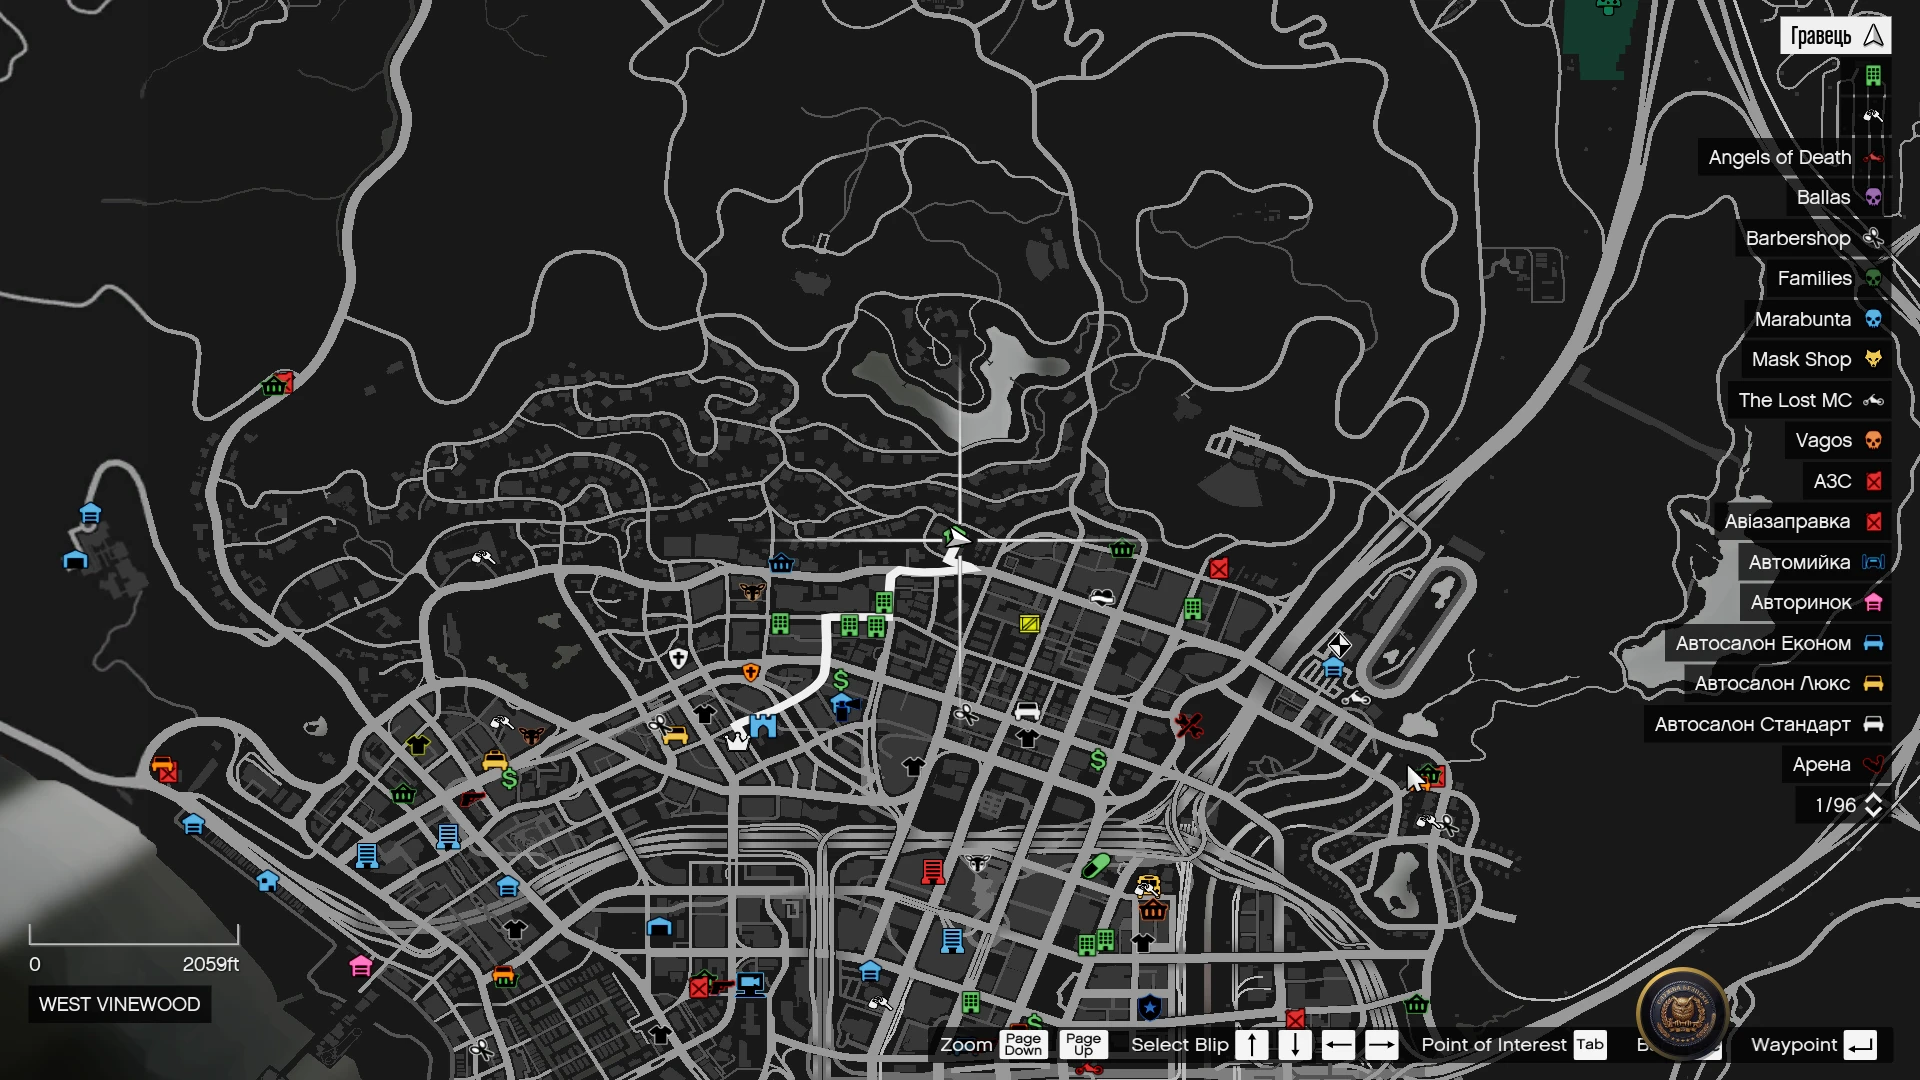
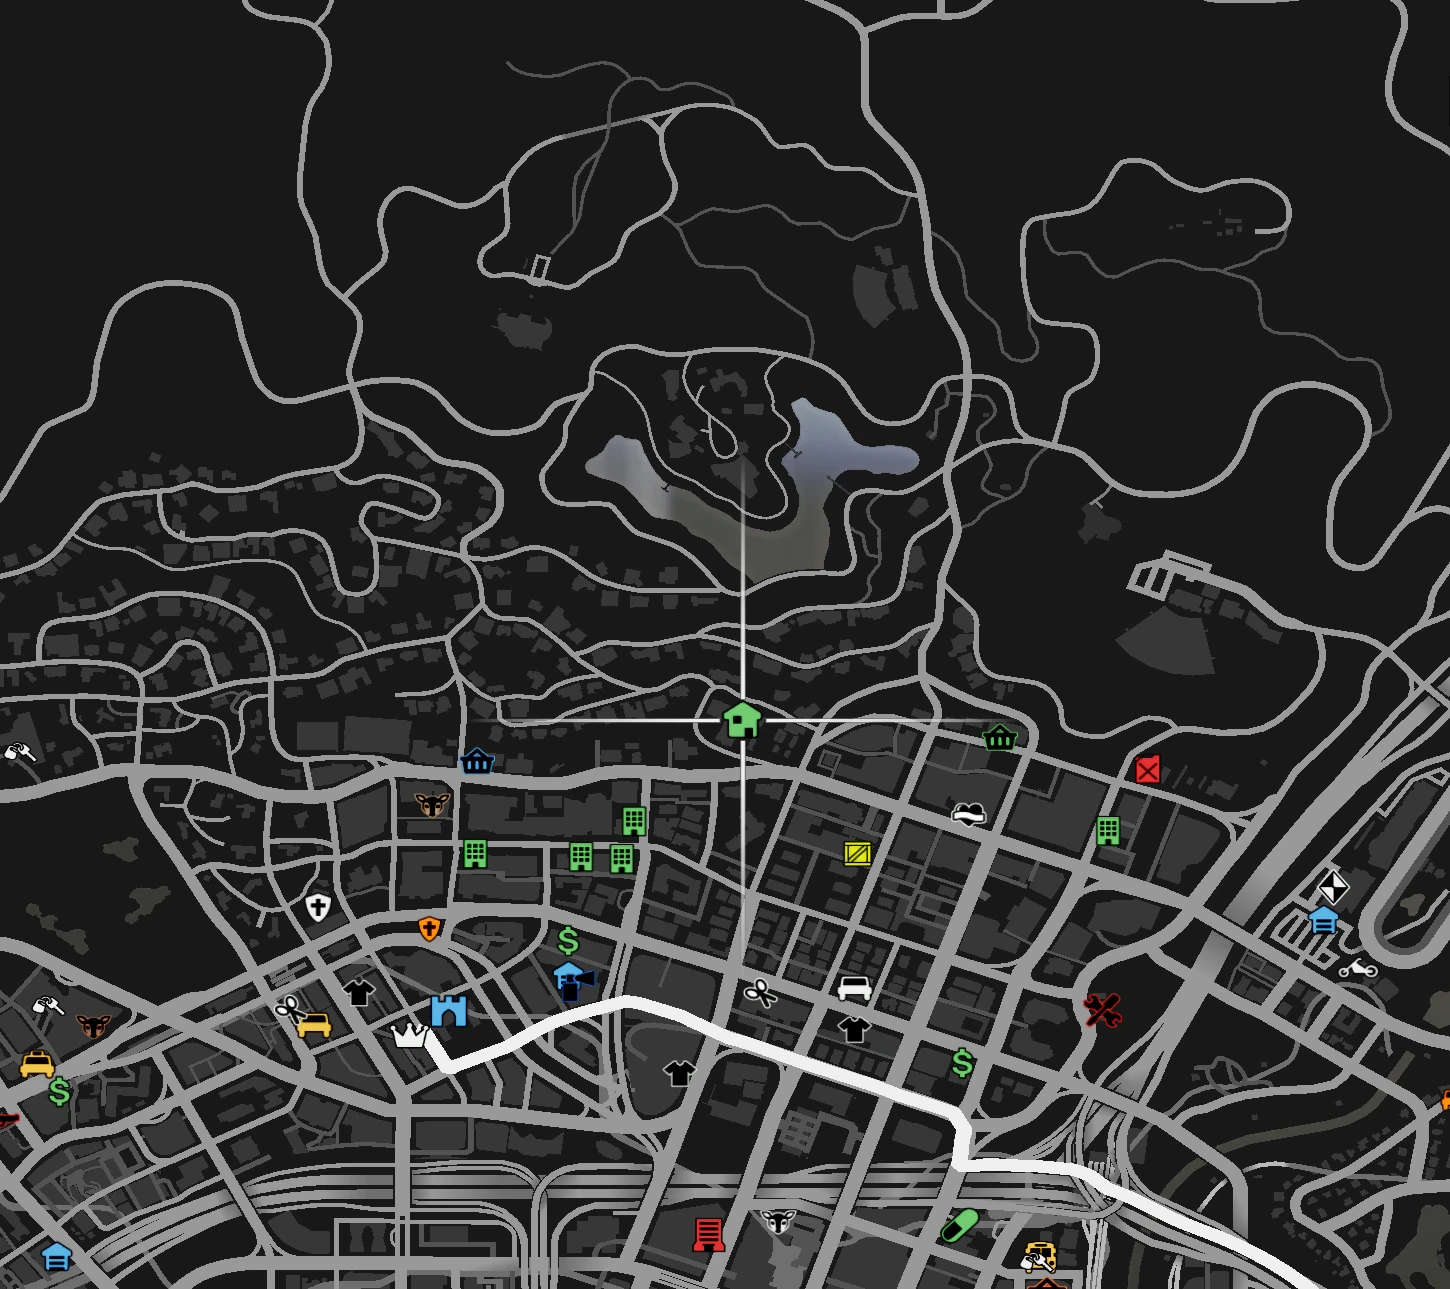
Штаб на карті: нова карта, вікно по центру, тактичний GPS-стиль (мітка-радар, приціл, скан, наближення)

diff --git a/info/family.css b/info/family.css
@@ -148,7 +148,6 @@
 .fm-facts dd{ margin:6px 0 0; font:400 22px/1.05 var(--c-display); text-transform:uppercase; letter-spacing:.02em; }
 .fm-hq__rule{ margin:20px 0 0; padding-left:14px; border-left:2px solid var(--c-red); font-size:14px; color:var(--c-muted); }
 .fm-hq__actions{ margin-top:24px; display:flex; flex-wrap:wrap; gap:12px; }
-.fm-lb--single{ grid-template-columns:minmax(0, 1fr); }
 
 /* ---------- Символ ---------- */
 .fm-emblem{ display:grid; grid-template-columns:minmax(260px, 420px) minmax(0, 1fr); gap:clamp(30px, 6vw, 80px); align-items:center; }
@@ -284,6 +283,165 @@
 .fm-lb__nav:hover, .fm-lb__close:hover{ background:var(--c-red); border-color:var(--c-red); }
 .fm-lb__close{ position:absolute; top:16px; right:16px; font-size:18px; }
 body.fm-lock{ overflow:hidden; }
+
+/* ---------- Штаб на карті: тактичний GPS ---------- */
+.fm-map{
+  position:fixed; inset:0; z-index:5000;
+  display:grid; place-items:center;
+  padding:clamp(10px, 3vw, 36px);
+  background:
+    radial-gradient(ellipse at 50% 45%, rgba(224,24,45,.16), transparent 60%),
+    rgba(3,3,4,.92);
+  -webkit-backdrop-filter:blur(10px); backdrop-filter:blur(10px);
+  animation:fmMapFade .35s ease both;
+}
+.fm-map[hidden]{ display:none; }
+.fm-map::before{
+  content:""; position:absolute; inset:0; pointer-events:none;
+  background-image:linear-gradient(rgba(255,255,255,.03) 1px, transparent 1px), linear-gradient(90deg, rgba(255,255,255,.03) 1px, transparent 1px);
+  background-size:48px 48px;
+}
+.fm-map__panel{
+  position:relative; width:min(1080px, 100%);
+  display:grid; grid-template-rows:auto minmax(0, 1fr) auto;
+  max-height:calc(100svh - 24px);
+  background:rgba(10,10,12,.92); border:1px solid rgba(255,255,255,.1);
+  box-shadow:0 40px 120px rgba(0,0,0,.7), 0 0 0 1px rgba(224,24,45,.15), 0 0 80px rgba(224,24,45,.12);
+  animation:fmMapIn .55s cubic-bezier(.2,.7,.2,1) both;
+}
+.fm-map__corners{ position:absolute; inset:-1px; pointer-events:none; z-index:3; }
+.fm-map__corners i{ position:absolute; width:22px; height:22px; border:2px solid var(--c-red); }
+.fm-map__corners i:nth-child(1){ top:0; left:0; border-right:0; border-bottom:0; }
+.fm-map__corners i:nth-child(2){ top:0; right:0; border-left:0; border-bottom:0; }
+.fm-map__corners i:nth-child(3){ bottom:0; left:0; border-right:0; border-top:0; }
+.fm-map__corners i:nth-child(4){ bottom:0; right:0; border-left:0; border-top:0; }
+
+.fm-map__bar{
+  display:flex; align-items:center; gap:16px; padding:12px 14px 12px 18px;
+  border-bottom:1px solid rgba(255,255,255,.08);
+  font:800 11px/1 var(--c-body); letter-spacing:.26em; text-transform:uppercase; color:var(--c-dim);
+}
+.fm-map__live{ display:inline-flex; align-items:center; gap:8px; color:#9ff0bb; }
+.fm-map__live i{ width:8px; height:8px; border-radius:50%; background:#22c55e; box-shadow:0 0 10px #22c55e; animation:fmMapBlink 1.4s ease-in-out infinite; }
+.fm-map__title{ margin-left:auto; color:var(--c-muted); }
+.fm-map__title b{ color:#fff; }
+.fm-map__close{
+  display:grid; place-items:center; width:40px; height:40px; margin-left:8px;
+  border:1px solid rgba(255,255,255,.14); background:rgba(0,0,0,.4); color:#fff; font-size:16px; cursor:pointer;
+  transition:background .2s, border-color .2s, transform .2s;
+}
+.fm-map__close:hover{ background:var(--c-red); border-color:var(--c-red); transform:rotate(90deg); }
+
+/* Вікно з картою */
+.fm-map__view{
+  position:relative; overflow:hidden; min-height:0;
+  display:grid; place-items:center; background:#151515;
+  cursor:zoom-in;
+}
+.fm-map.is-zoomed .fm-map__view{ cursor:zoom-out; }
+.fm-map__stage{
+  position:relative; width:100%; max-height:calc(100svh - 250px); aspect-ratio:1450 / 1289;
+  margin:0 auto;
+  transform-origin:var(--x) var(--y);
+  transition:transform .8s cubic-bezier(.2,.7,.2,1);
+  animation:fmMapZoomIn 1.2s cubic-bezier(.2,.7,.2,1) both;
+}
+@supports (height:1svh){ .fm-map__stage{ width:min(100%, calc((100svh - 250px) * 1450 / 1289)); } }
+.fm-map.is-zoomed .fm-map__stage{ transform:scale(2); }
+.fm-map__stage img{
+  display:block; width:100%; height:100%; object-fit:cover;
+  filter:contrast(1.08) saturate(1.1) brightness(.95);
+}
+/* червоний відтінок поверх карти — у стилі сайту */
+.fm-map__stage::after{
+  content:""; position:absolute; inset:0; pointer-events:none;
+  background:radial-gradient(circle at var(--x) var(--y), rgba(224,24,45,.0) 0, rgba(224,24,45,.0) 12%, rgba(5,5,6,.35) 60%, rgba(5,5,6,.6) 100%);
+  mix-blend-mode:multiply;
+}
+
+/* Мітка особняка з радаром */
+.fm-map__pin{ position:absolute; left:var(--x); top:var(--y); z-index:2; width:0; height:0; }
+.fm-map__pin i{
+  position:absolute; left:-60px; top:-60px; width:120px; height:120px; border-radius:50%;
+  border:2px solid rgba(255,42,61,.9); opacity:0;
+  animation:fmMapPing 2.4s cubic-bezier(.2,.7,.2,1) infinite;
+}
+.fm-map__pin i:nth-child(2){ animation-delay:.8s; }
+.fm-map__pin i:nth-child(3){ animation-delay:1.6s; }
+.fm-map__pin b{
+  position:absolute; left:-26px; top:-26px; width:52px; height:52px; border-radius:50%;
+  border:2px solid var(--c-red-hot);
+  box-shadow:0 0 0 4px rgba(224,24,45,.25), 0 0 30px rgba(255,42,61,.8), inset 0 0 18px rgba(255,42,61,.5);
+}
+.fm-map.is-zoomed .fm-map__pin{ transform:scale(.5); }
+.fm-map__tag{
+  position:absolute; left:var(--x); top:var(--y); z-index:2;
+  transform:translate(36px, -78px);
+  padding:9px 14px 10px; white-space:nowrap;
+  background:rgba(8,8,10,.9); border:1px solid rgba(255,42,61,.7); border-left:3px solid var(--c-red);
+  font:400 18px/1 var(--c-display); letter-spacing:.06em; text-transform:uppercase; color:#fff;
+  box-shadow:0 10px 30px rgba(0,0,0,.5);
+  animation:fmMapTag .6s .9s cubic-bezier(.2,.7,.2,1) both;
+}
+.fm-map__tag small{ display:block; margin-bottom:5px; font:800 9px/1 var(--c-body); letter-spacing:.3em; color:var(--c-red-hot); }
+.fm-map__tag::before{
+  content:""; position:absolute; left:-36px; bottom:-30px; width:44px; height:1px; background:rgba(255,42,61,.8);
+  transform-origin:right; transform:rotate(-40deg);
+}
+.fm-map.is-zoomed .fm-map__tag{ transform:translate(18px, -40px) scale(.5); transform-origin:left bottom; }
+
+/* Приціл, скан-лінія, віньєтка */
+.fm-map__cross{ position:absolute; z-index:1; pointer-events:none; background:rgba(255,42,61,.35); }
+.fm-map__cross--x{ left:0; right:0; top:var(--y); height:1px; animation:fmMapCrossX 1s .3s cubic-bezier(.2,.7,.2,1) both; }
+.fm-map__cross--y{ top:0; bottom:0; left:var(--x); width:1px; animation:fmMapCrossY 1s .3s cubic-bezier(.2,.7,.2,1) both; }
+.fm-map.is-zoomed .fm-map__cross{ opacity:0; transition:opacity .3s; }
+.fm-map__scan{
+  position:absolute; left:0; right:0; height:120px; top:-120px; z-index:1; pointer-events:none;
+  background:linear-gradient(180deg, transparent, rgba(255,42,61,.12) 70%, rgba(255,42,61,.35));
+  animation:fmMapScan 4.5s linear infinite;
+}
+.fm-map__vignette{
+  position:absolute; inset:0; z-index:1; pointer-events:none;
+  background:repeating-linear-gradient(0deg, rgba(0,0,0,.12) 0 1px, transparent 1px 3px);
+  box-shadow:inset 0 0 120px rgba(0,0,0,.85);
+}
+
+.fm-map__foot{
+  display:flex; align-items:center; gap:18px; flex-wrap:wrap; padding:14px 18px;
+  border-top:1px solid rgba(255,255,255,.08);
+}
+.fm-map__addr small{ display:block; font:800 10px/1 var(--c-body); letter-spacing:.3em; text-transform:uppercase; color:var(--c-red-hot); }
+.fm-map__addr b{ display:block; margin-top:6px; font:400 26px/1 var(--c-display); text-transform:uppercase; }
+.fm-map__coords{ margin-left:auto; font:600 12px/1 ui-monospace, Consolas, monospace; letter-spacing:.12em; color:var(--c-dim); }
+.fm-map__coords span{ color:#fff; }
+.fm-map__zoom{ white-space:nowrap; }
+
+@keyframes fmMapFade{ from{ opacity:0; } }
+@keyframes fmMapIn{ from{ opacity:0; transform:translateY(24px) scale(.97); } }
+@keyframes fmMapZoomIn{ from{ transform:scale(1.35); filter:blur(6px); opacity:.2; } }
+@keyframes fmMapPing{ 0%{ transform:scale(.3); opacity:1; } 100%{ transform:scale(1.6); opacity:0; } }
+@keyframes fmMapTag{ from{ opacity:0; transform:translate(56px, -78px); } }
+@keyframes fmMapCrossX{ from{ transform:scaleX(0); } }
+@keyframes fmMapCrossY{ from{ transform:scaleY(0); } }
+@keyframes fmMapScan{ to{ top:100%; } }
+@keyframes fmMapBlink{ 50%{ opacity:.3; } }
+
+@media (max-width:640px){
+  .fm-map{ padding:8px; }
+  .fm-map__title{ display:none; }
+  .fm-map__live{ margin-right:auto; }
+  .fm-map__stage{ max-height:calc(100svh - 290px); }
+  @supports (height:1svh){ .fm-map__stage{ width:min(100%, calc((100svh - 290px) * 1450 / 1289)); } }
+  .fm-map__tag{ font-size:14px; transform:translate(26px, -64px); }
+  .fm-map__coords{ display:none; }
+  .fm-map__zoom{ margin-left:auto; }
+  .fm-map__addr b{ font-size:20px; }
+}
+@media (prefers-reduced-motion: reduce){
+  .fm-map, .fm-map__panel, .fm-map__stage, .fm-map__tag, .fm-map__cross{ animation:none; }
+  .fm-map__scan, .fm-map__pin i, .fm-map__live i{ animation:none; }
+  .fm-map__stage{ transition:none; }
+}
 
 /* ---------- Заклик ---------- */
 .fm-cta{

diff --git a/info/index.html b/info/index.html
@@ -21,7 +21,7 @@
   <link rel="stylesheet" href="/auth.css?v=20260926b">
   <link rel="stylesheet" href="/profile.css?v=20261116">
   <link rel="stylesheet" href="/castro.css?v=20260926h">
-  <link rel="stylesheet" href="/info/family.css?v=20260926c">
+  <link rel="stylesheet" href="/info/family.css?v=20261117">
   <link rel="stylesheet" href="/page-transition.css?v=20260926">
   <link rel="stylesheet" href="/cursor.css?v=20260926">
   <link rel="stylesheet" href="/screen-scale.css?v=20260926">
@@ -486,12 +486,31 @@
 </main>
 
 <!-- Карта: де особняк -->
-<div class="fm-lb fm-lb--single" id="fmMap" role="dialog" aria-modal="true" aria-label="Особняк на карті" hidden>
-  <button class="fm-lb__close" type="button" aria-label="Закрити">✕</button>
-  <figure>
-    <img alt="Особняк Family Castro на карті — провулок Джентрі, Західний Вайнвуд" data-src="/assets/mansion-map.webp">
-    <figcaption><small>Західний Вайнвуд</small><b>Провулок Джентрі</b></figcaption>
-  </figure>
+<div class="fm-map" id="fmMap" role="dialog" aria-modal="true" aria-label="Особняк на карті" hidden>
+  <div class="fm-map__panel">
+    <span class="fm-map__corners" aria-hidden="true"><i></i><i></i><i></i><i></i></span>
+    <header class="fm-map__bar">
+      <span class="fm-map__live"><i></i>GPS • Сигнал</span>
+      <span class="fm-map__title">Штаб <b>CASTRO</b></span>
+      <button class="fm-map__close" type="button" aria-label="Закрити">✕</button>
+    </header>
+    <div class="fm-map__view" style="--x:51.17%; --y:55.8%">
+      <div class="fm-map__stage">
+        <img alt="Особняк Family Castro на карті — провулок Джентрі, Західний Вайнвуд" data-src="/assets/mansion-map.webp?v=2" width="1450" height="1289">
+        <span class="fm-map__pin" aria-hidden="true"><i></i><i></i><i></i><b></b></span>
+        <span class="fm-map__tag" aria-hidden="true"><small>Особняк</small>Family Castro</span>
+      </div>
+      <span class="fm-map__cross fm-map__cross--x" aria-hidden="true"></span>
+      <span class="fm-map__cross fm-map__cross--y" aria-hidden="true"></span>
+      <span class="fm-map__scan" aria-hidden="true"></span>
+      <span class="fm-map__vignette" aria-hidden="true"></span>
+    </div>
+    <footer class="fm-map__foot">
+      <div class="fm-map__addr"><small>Західний Вайнвуд</small><b>Провулок Джентрі</b></div>
+      <div class="fm-map__coords" aria-hidden="true">X <span>51.17</span> • Y <span>55.80</span></div>
+      <button class="cbtn cbtn--red fm-map__zoom" type="button" aria-pressed="false">🔍 Наблизити</button>
+    </footer>
+  </div>
 </div>
 
 <!-- Лайтбокс галереї -->
@@ -515,7 +534,7 @@
 <script src="/auth.js?v=20260926" defer></script>
 <script src="/profile.js?v=20261116" defer></script>
 <script src="/castro.js?v=20260926f"></script>
-<script src="/info/family.js?v=20260926b"></script>
+<script src="/info/family.js?v=20261117"></script>
 <script src="/cursor.js?v=20260926"></script>
 </body>
 </html>

diff --git a/info/family.js b/info/family.js
@@ -65,13 +65,22 @@
   const mapBtn = document.querySelector("[data-map-open]");
   if (map && mapBtn) {
     const mapImg = map.querySelector("img");
+    const zoomBtn = map.querySelector(".fm-map__zoom");
+    const view = map.querySelector(".fm-map__view");
+    const closeBtn = map.querySelector(".fm-map__close");
     let mapFocus = null;
+    const setZoom = (on) => {
+      map.classList.toggle("is-zoomed", on);
+      zoomBtn.setAttribute("aria-pressed", String(on));
+      zoomBtn.textContent = on ? "↺ Віддалити" : "🔍 Наблизити";
+    };
     const openMap = () => {
       mapFocus = document.activeElement;
-      if (!mapImg.src) mapImg.src = mapImg.dataset.src;
+      if (!mapImg.getAttribute("src")) mapImg.src = mapImg.dataset.src;
+      setZoom(false);
       map.hidden = false;
       document.body.classList.add("fm-lock");
-      map.querySelector(".fm-lb__close").focus();
+      closeBtn.focus();
     };
     const closeMap = () => {
       map.hidden = true;
@@ -79,8 +88,10 @@
       mapFocus?.focus();
     };
     mapBtn.addEventListener("click", openMap);
-    map.querySelector(".fm-lb__close").addEventListener("click", closeMap);
-    map.addEventListener("click", (e) => { if (e.target === map || e.target.tagName === "FIGURE") closeMap(); });
+    closeBtn.addEventListener("click", closeMap);
+    zoomBtn.addEventListener("click", () => setZoom(!map.classList.contains("is-zoomed")));
+    view.addEventListener("click", () => setZoom(!map.classList.contains("is-zoomed")));
+    map.addEventListener("click", (e) => { if (e.target === map) closeMap(); });
     document.addEventListener("keydown", (e) => { if (!map.hidden && e.key === "Escape") closeMap(); });
   }
 
